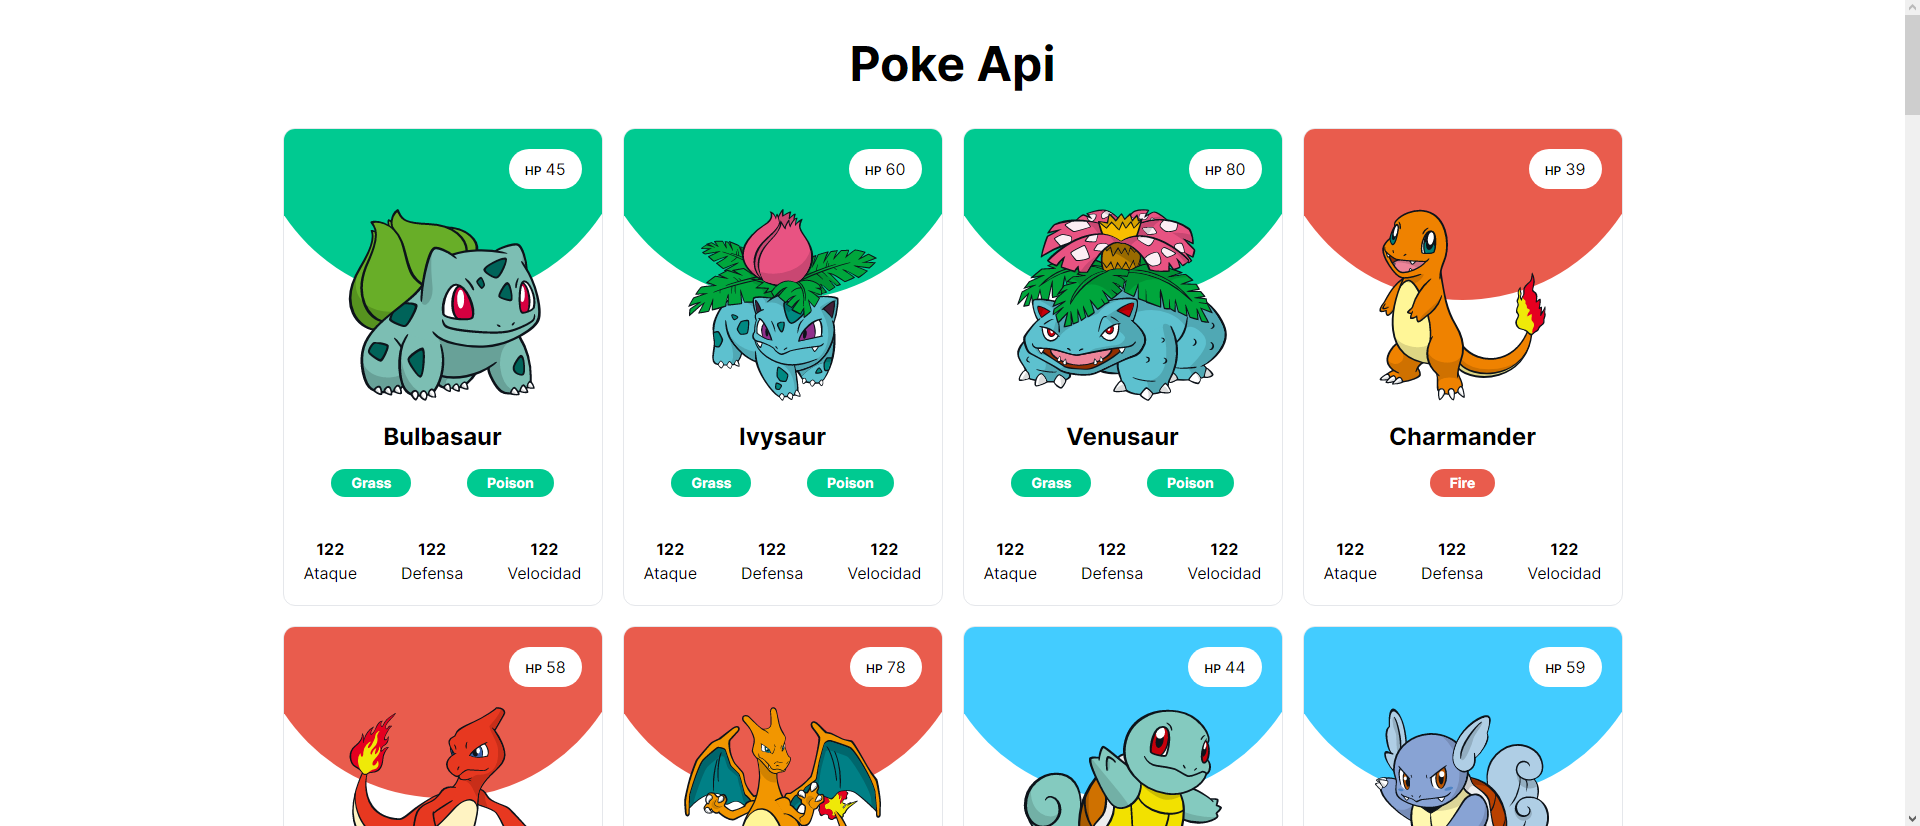
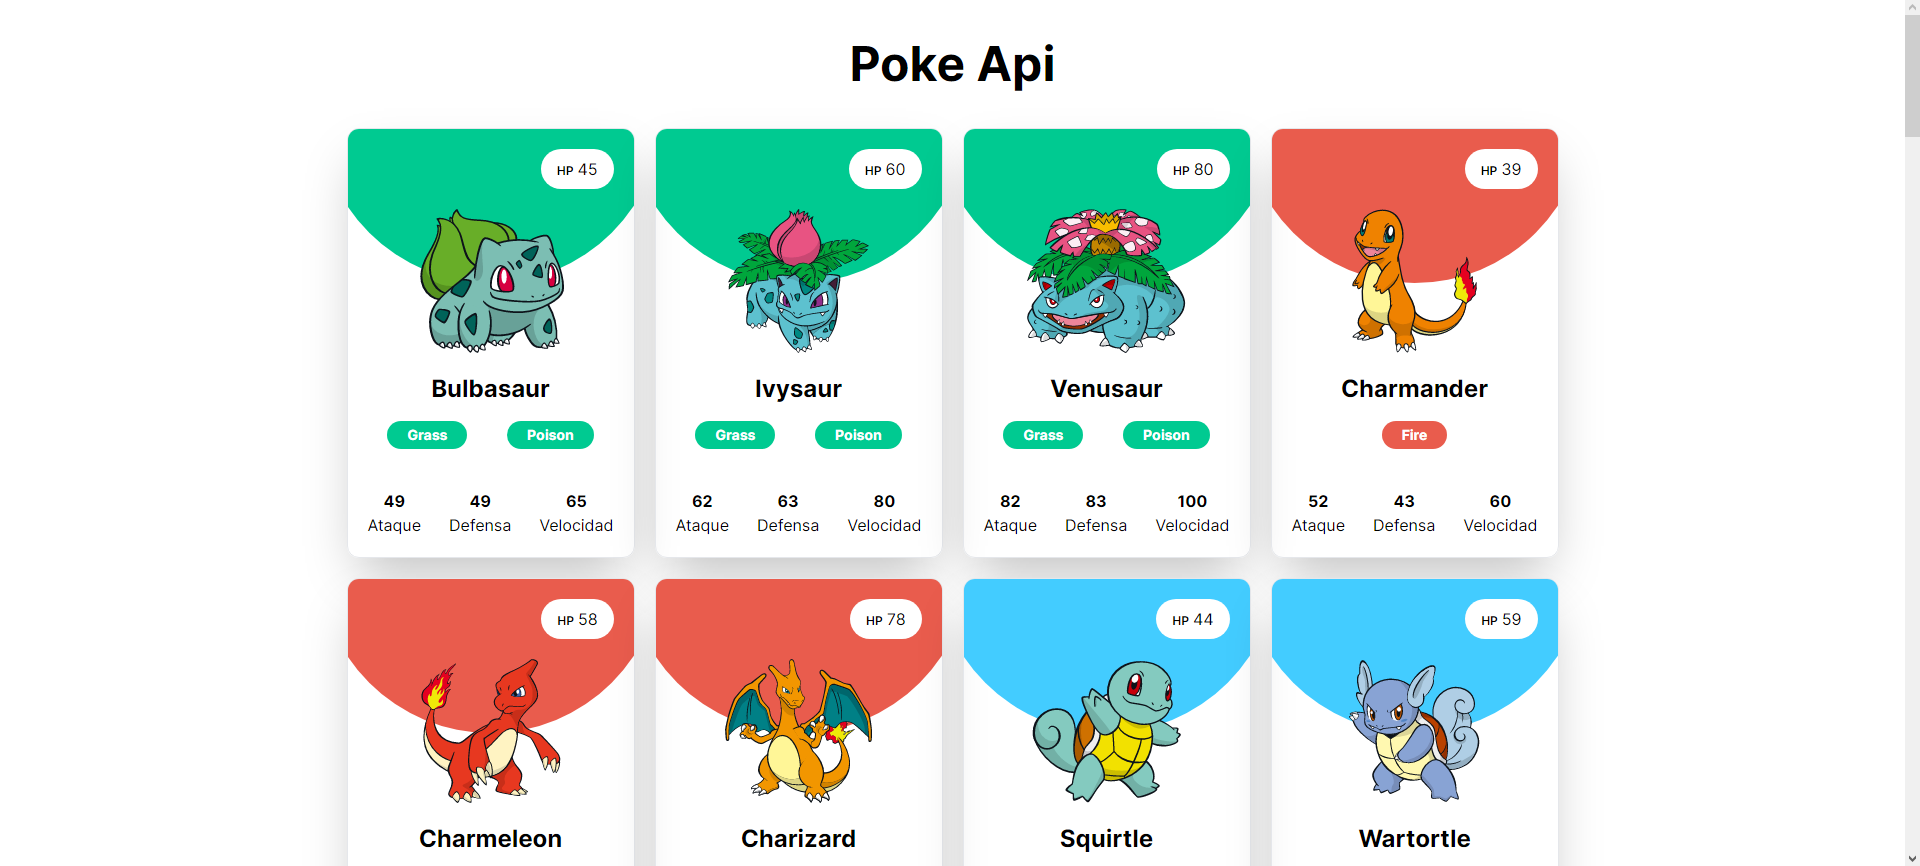
capture img

diff --git a/src/App.jsx b/src/App.jsx
@@ -4,7 +4,7 @@ import { Routes, Route } from "react-router-dom";
 import DetailsPokemon from './Pages/DetailsPokemon';
 const App = () => {
 	return (
-		<div className="container mx-auto">
+		<div className="container mx-auto max-w-7xl">
 			<div className="text-center py-10">
 				<h1 className="text-5xl font-bold">Poke Api</h1>
 			</div >
